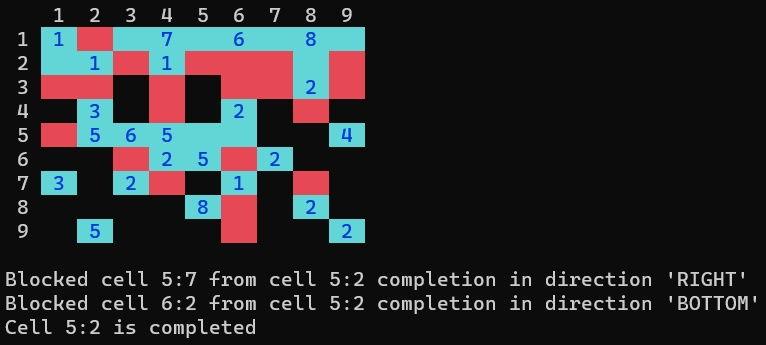
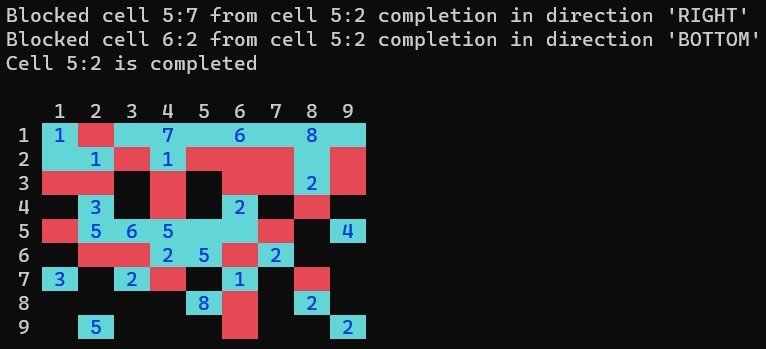
Better handling of rectangular schema Readme file

diff --git a/OhNoSolver/OhNoSchema.cs b/OhNoSolver/OhNoSchema.cs
@@ -4,32 +4,38 @@
 	{
 		public OhNoCell[][] Cells { get; private set; }
 
-		public OhNoSchema(int heigth, int length)
+		public int Height { get; private set; }
+		public int Width { get; private set; }
+
+        public OhNoSchema(int height, int width)
 		{
-			Cells = new OhNoCell[heigth][];
+			Height = height;
+			Width = width;
 
-			for (int r = 0; r < heigth; r++)
+			Cells = new OhNoCell[Height][];
+
+			for (int r = 0; r < Height; r++)
 			{
-				Cells[r] = new OhNoCell[length];
+				Cells[r] = new OhNoCell[Width];
 
-				for (int c = 0; c < length; c++)
+				for (int c = 0; c < Width; c++)
 				{
 					Cells[r][c] = new OhNoCell();
 				}
 			}
 		}
 
-		public OhNoSchema(int heigth, int length, List<OhNoCellSetup> setup) : this(heigth, length)
+		public OhNoSchema(int height, int width, List<OhNoCellSetup> setup) : this(height, width)
 		{
 			foreach (var cell in setup)
 			{
-				if (cell.Row >= Cells.Length)
+				if (cell.Row >= Height)
 				{
-					throw new ArgumentException($"The setup for cell at { cell.Row }:{ cell.Column } is out of the configured schema ({ Cells.Length }x{ Cells[0].Length } ).");
+					throw new ArgumentException($"The setup for cell at { cell.Row }:{ cell.Column } is out of the configured schema ({ Height }x{ Width }).");
 				}
-				else if (cell.Column >= Cells[0].Length)
+				else if (cell.Column >= Width)
 				{
-					throw new ArgumentException($"The setup for cell at { cell.Row }:{ cell.Column } is out of the configured schema ({ Cells.Length }x{ Cells[0].Length } ).");
+					throw new ArgumentException($"The setup for cell at { cell.Row }:{ cell.Column } is out of the configured schema ({ Height }x{ Width }).");
 				}
 
 				switch (cell.Status)
@@ -50,9 +56,9 @@
 
 		public bool IsSolved()
 		{
-            for (int r = 0; r < Cells.Length; r++)
+            for (int r = 0; r < Height; r++)
             {
-                for (int c = 0; c < Cells[0].Length; c++)
+                for (int c = 0; c < Width; c++)
                 {
                     if (Cells[r][c].HasValue && !Cells[r][c].IsSolved)
                     {
@@ -71,9 +77,9 @@
 				return false;
 			}
 
-            for (int r = 0; r < Cells.Length; r++)
+            for (int r = 0; r < Height; r++)
             {
-                for (int c = 0; c < Cells[0].Length; c++)
+                for (int c = 0; c < Width; c++)
                 {
                     if (Cells[r][c].IsEmpty)
                     {

diff --git a/OhNoSolver/OhNoSchemaSolver.cs b/OhNoSolver/OhNoSchemaSolver.cs
@@ -22,9 +22,9 @@
 		{
 			if (!_schema.IsSolved())
 			{
-				for (int r = 0; r < _schema.Cells.Length; r++)
+				for (int r = 0; r < _schema.Height; r++)
 				{
-					for (int c = 0; c < _schema.Cells[0].Length; c++)
+					for (int c = 0; c < _schema.Width; c++)
 					{
 						if (_schema.Cells[r][c].HasValue && !_schema.Cells[r][c].IsSolved)
 						{
@@ -40,9 +40,9 @@
 			}
 			else if (!_schema.IsCompleted())
 			{
-				for (int r = 0; r < _schema.Cells.Length; r++)
+				for (int r = 0; r < _schema.Height; r++)
 				{
-					for (int c = 0; c < _schema.Cells[0].Length; c++)
+					for (int c = 0; c < _schema.Width; c++)
 					{
 						if (_schema.Cells[r][c].IsEmpty)
 						{

diff --git a/OhNoSolver/OhNoCellCoordinate.cs b/OhNoSolver/OhNoCellCoordinate.cs
@@ -23,11 +23,11 @@
                 case OhNoDirectionEnum.TOP:
                     return Row - steps >= 0;
                 case OhNoDirectionEnum.BOTTOM:
-                    return Row + steps < _schema.Cells.Length;
+                    return Row + steps < _schema.Height;
                 case OhNoDirectionEnum.LEFT:
                     return Column - steps >= 0;
                 case OhNoDirectionEnum.RIGHT:
-                    return Column + steps < _schema.Cells.Length;
+                    return Column + steps < _schema.Width;
             }
 
             throw new NotImplementedException($"Missing implementation for direction: {direction}");

diff --git a/OhNoSolver/OhNoSchemaPrinter.cs b/OhNoSolver/OhNoSchemaPrinter.cs
@@ -10,17 +10,17 @@
 			}
 
 			Console.Write("   ");
-			for (int r = 0; r < schema.Cells.Length; r++)
+			for (int c = 0; c < schema.Width; c++)
 			{
-				Console.Write($" { r + 1 }{(r < 10 ? " " : "")}");
+				Console.Write($" { c + 1 }{(c < 10 ? " " : "")}");
 			}
 			Console.WriteLine();
 
-			for (int r = 0; r < schema.Cells.Length; r++)
+			for (int r = 0; r < schema.Height; r++)
 			{
 				Console.Write($" { r + 1 }{(r + 1 < 10 ? " " : "")}");
 
-				for (int c = 0; c < schema.Cells[0].Length; c++)
+				for (int c = 0; c < schema.Width; c++)
 				{
 					switch (schema.Cells[r][c].Status)
 					{

diff --git a/OhNoSolver/README.md b/OhNoSolver/README.md
@@ -1,0 +1,74 @@
+# 0hN0 Solver
+
+## Intro
+This project is an [0hN0 game](https://0hn0.com) solver based on rules and implemented in C#.
+OhNo is a logical game, similiar to Kuromasu [Kuromasu](https://en.wikipedia.org/wiki/Kuromasu).
+The solver, in its current implementation, proceeds one "step" at a time proving the reasouns of its behavior.
+Please notice this is just an "alghoritmical excercise" made for fun.
+
+## How to
+The game board of 0hN0 is represented by an array of any size (not necessarily squared).
+The board can be setup in **Program.cs** with 2 types of entities:
+* Block
+* Full cells with a target value
+
+```
+var schema = new OhNoSchema(9, 9, new List<OhNoCellSetup>()
+{
+    // Block at 1:1
+    OhNoCellSetup.SetupBlockedCell(1, 1),
+    ...
+    
+    // Full cell at 2:2 with a requirement of 5
+    OhNoCellSetup.SetupFullCell(2, 2, 5),
+    ...
+});
+```
+
+Please notice that cells coordintes are expected to start at 1:1, to simplify the input process. Also all the output provided by the algorithm uses the same approach.
+
+Once created, the schema can be printed or solved on step at a time using the following methods:
+
+### Print
+```
+OhNoSchemaPrinter.PrintSchema(schema); // Printes the board
+```
+
+![Initial example board.](https://github.com/brinux/OhNoSolver/blob/master/OhNoSolver/Documentation/schema.jpg?raw=true "Initial example board.")
+
+### Solve
+```
+// Create a solver passing it the game board/schema
+var solver = new OhNoSchemaSolver(schema);
+
+// Tries to perform one step of the solution and returns a boolean accordingly
+while (solver.Solve())
+{
+    ...
+}
+
+// Checks if the full cell requirements are satisfied
+if (schema.IsSolved())
+{
+    ...
+    
+    // Checks if the schema "IsSolved()" and if all the empty cells were filled or converted into blocks
+	if (schema.IsCompleted())
+    {
+    	...
+    }
+}
+else
+{
+    ...
+}
+```
+
+![Initial example board.](https://github.com/brinux/OhNoSolver/blob/master/OhNoSolver/Documentation/step.jpg?raw=true "Initial example board.")
+
+![Initial example board.](https://github.com/brinux/OhNoSolver/blob/master/OhNoSolver/Documentation/solution.jpg?raw=true "Initial example board.")
+
+## Improvements
+
+I'm already aware of a few potential improvements the come may leverage, mostly coming from playing similiar games, and I'll add them as soon as they'll be needed, or asked for.
+In case you find any bug, need additional features, or anything, feel free to get in touch.
